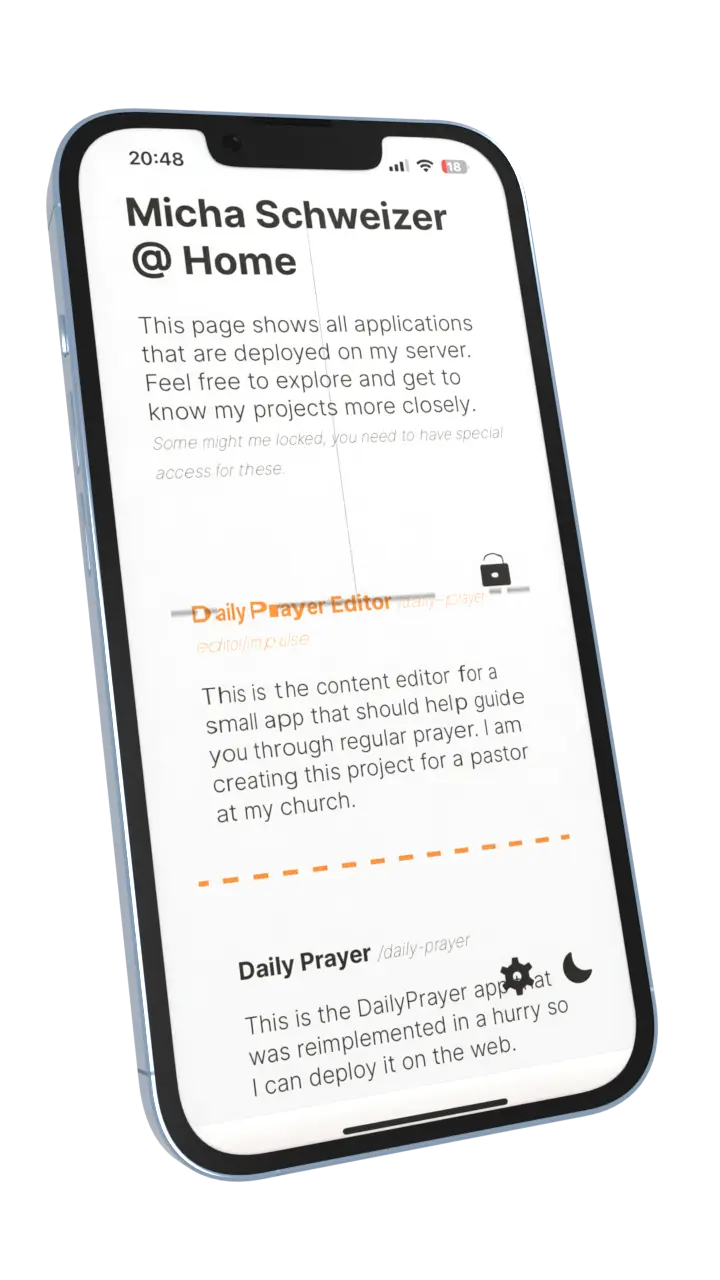
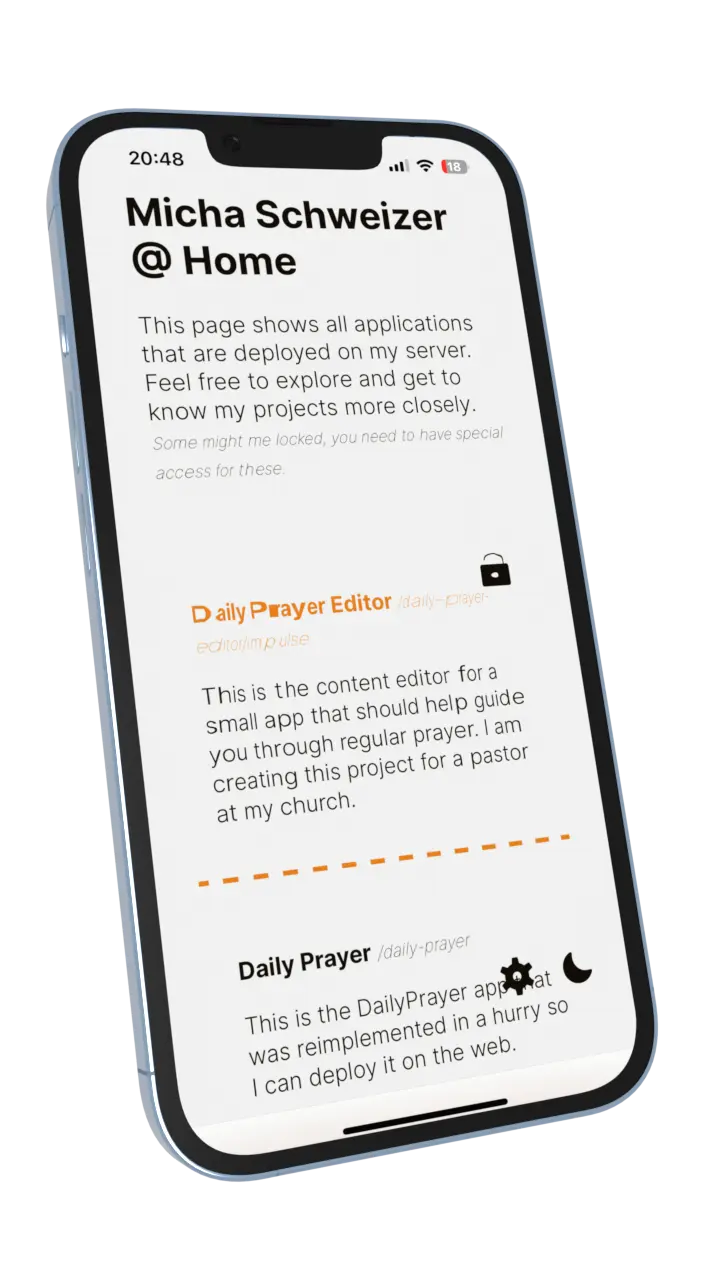
update images & cleanup

diff --git a/index.mobile.css b/index.mobile.css
@@ -6,32 +6,36 @@
 /* small screen and touchscreen */
 :root, [color-theme="default"] {
   --work-teachu-image: url(assets/images/work/mobile-teachu-light.webp);
-  --work-automation-image: url(assets/images/work/mobile-room-automation.webp);
-  --work-other-image: url(assets/images/work/desktop-other-light.webp);
-  --work-deployment-image: url(assets/images/work/work-image-deployments-light.png);
+  --work-automation-image: url(assets/images/work/mobile-automation-light.webp);
+  --work-other-image: url(assets/images/work/mobile-other-light.webp);
+  --work-deployment-image: url(assets/images/work/mobile-controller-light.webp);
   --work-prayer-image: url(assets/images/work/mobile-prayer-light.webp);
+  --work-budget-image: url(assets/images/work/mobile-budget-light.webp);
 }
 
 [color-theme="dark"] {
   --work-teachu-image: url(assets/images/work/mobile-teachu-dark.webp);
-  --work-other-image: url(assets/images/work/desktop-other-light.webp);
-  --work-deployment-image: url(assets/images/work/work-image-deployments-dark.png);
+  --work-other-image: url(assets/images/work/mobile-other-dark.webp);
+  --work-deployment-image: url(assets/images/work/mobile-controller-dark.webp);
+  --work-budget-image: url(assets/images/work/mobile-budget-dark.webp);
 }
 
 /* not touchscreen */
 @media (any-pointer: fine) {
   :root, [color-theme="default"] {
-    --work-teachu-image: url(assets/images/work/work-teachu-light.png);
+    --work-teachu-image: url(assets/images/work/desktop-teachu-light.webp);
     --work-automation-image: url(assets/images/work/desktop-room-automation.webp);
     --work-other-image: url(assets/images/work/desktop-other-light.webp);
-    --work-deployment-image: url(assets/images/work/work-image-deployments-light.png);
+    --work-deployment-image: url(assets/images/work/desktop-controller-light.webp);
     --work-prayer-image: url(assets/images/work/mobile-prayer-light.webp);
+    --work-budget-image: url(assets/images/work/desktop-budget-light.webp);
   }
 
   [color-theme="dark"] {
-    --work-teachu-image: url(assets/images/work/work-teachu-dark.png);
-    --work-other-image: url(assets/images/work/desktop-other-light.webp);
-    --work-deployment-image: url(assets/images/work/work-image-deployments-dark.png);
+    --work-teachu-image: url(assets/images/work/desktop-teachu-dark.webp);
+    --work-other-image: url(assets/images/work/desktop-other-dark.webp);
+    --work-deployment-image: url(assets/images/work/desktop-controller-dark.webp);
+    --work-budget-image: url(assets/images/work/desktop-controller-dark.webp);
   }
 }
 

diff --git a/index.html b/index.html
@@ -14,7 +14,6 @@
 
   <link rel="preconnect" href="https://fonts.googleapis.com">
   <link rel="preconnect" href="https://fonts.gstatic.com" crossorigin>
-  <!--    TODO only download families that are actually used -->
   <link href="https://fonts.googleapis.com/css2?family=Roboto:ital,wght@0,100;0,300;0,400;0,500;0,700;0,900;1,100;1,300;1,400;1,500;1,700;1,900&display=swap" rel="stylesheet">
 
   <script src='theming/theme-loader.js'></script>
@@ -78,14 +77,8 @@
   <div class="banner-container" id="home-banner-container">
     <div class="banner" id="home-banner"></div>
   </div>
-
   <section id="work">
     <h3>Work</h3>
-    <!--    TODO cleanup!! -->
-    <!--    TODO "appear" animation, scale & opacity?-->
-    <!--    TODO only first orange banner is moving (I actually think it is, but down and not up) -->
-    <!--    TODO fix app images -->
-    <!--    TODO fix mobile (maybe not sticky (it jumps a bit) and normal list) -->
     <div class="work-items">
       <div class="work-item" id="work-teachu" style="margin-top: clamp(10px, 2vh, 36px);">
         <h4>TeachU</h4>
@@ -177,7 +170,7 @@
           A WebApp that lets you manage your money in a breeze. It features automatic transaction import via E-Mail.
         </p>
         <div class="work-item-content">
-          <div class="image-container" style="background-image: var(--work-other-image);"></div>
+          <div class="image-container" style="background-image: var(--work-budget-image);"></div>
           <div class="description">
             <p>
               I’ve started this project because I want to gain a better overview of my
@@ -234,7 +227,7 @@
       <div class="work-item" id="work-other" style="margin-top: calc(6 * clamp(10px, 2vh, 36px));">
         <h4>Other</h4>
         <p class="subtitle">
-          On my path as a developer I have come across many more smaller projects.
+          During my career as a developer I have come across many more smaller projects.
         </p>
         <div class="work-item-content">
           <div class="image-container" style="background-image: var(--work-other-image)"></div>
@@ -263,7 +256,6 @@
             <span class="tag" style="font-weight: 100;">Nuxt</span>
             <span class="tag" style="font-weight: 100;">Ruby on Rails</span>
           </div>
-          <!--          fixme wraps onto a new line if many tags exist, generally not really happy with this-->
           <a class="anchor" href="/host" target="_blank">Visit<span class="link-icon"></span></a>
         </div>
       </div>

diff --git a/index.js b/index.js
@@ -32,14 +32,13 @@ function init() {
   themeToggleButton.addEventListener("click", toggleColorPressed);
 
   if (useSmallDesign) {
-    createMobileWorkAnimations("#work-teachu");
-    createMobileWorkAnimations("#work-room");
-    createMobileWorkAnimations("#work-prayer");
-    createMobileWorkAnimations("#work-budget");
-    createMobileWorkAnimations("#work-controller");
-    createMobileWorkAnimations("#work-other");
+    const workItems = document.getElementsByClassName("work-item");
+    for (let workItem of workItems) {
+      const idString = "#" + workItem.id;
+      createMobileWorkAnimations(idString);
+    }
   } else {
-    createWorkAnimations(); // changes website structure => needs to be done first
+    createWorkItemPinnedScroll(); // will change website structure => needs to be done first
   }
   createLoadingAnimation();
   createBannerScrollTrigger("#home-banner", "#home-banner-container", useSmallDesign);
@@ -150,7 +149,7 @@ function createOverlayEndTrigger() {
   });
 }
 
-function createWorkAnimations() {
+function createWorkItemPinnedScroll() {
   const yOffset = window.innerHeight;
   const workItemCount = document.getElementsByClassName("work-item").length;
 
@@ -158,24 +157,27 @@ function createWorkAnimations() {
       ".work-item:not(:first-child)",
       {
         y: yOffset,
+        scale: 0.5,
+        opacity: 0.85,
+        rotationX: -50,
       },
       {
         y: 0,
-        stagger: 0.7,
+        scale: 1,
+        opacity: 1,
+        stagger: 0.5,
+        rotationX: 0,
         scrollTrigger: {
           pin: "#work",
           scrub: 0.5,
           start: "top top",
           end: () => `+=${ yOffset * workItemCount }`,
+          toggleClass: "active",
         },
       },
   );
 }
 
-// TODO
-// - a lot of this code can be reused
-// - try do use the exact same animations for desktop,
-//    different scroll trigger is probably required
 function createMobileWorkAnimations(workItemId) {
   const defaultFlyInAnimation = {
     y: 40,

diff --git a/index.desktop.css b/index.desktop.css
@@ -3,19 +3,20 @@
   display: none !important;
 }
 
-/*TODO complete all renders of the images*/
 :root, [color-theme="default"] {
-  --work-teachu-image: url(assets/images/work/work-teachu-light.png);
+  --work-teachu-image: url(assets/images/work/desktop-teachu-light.webp);
   --work-automation-image: url(assets/images/work/desktop-room-automation.webp);
   --work-other-image: url(assets/images/work/desktop-other-light.webp);
-  --work-deployment-image: url(assets/images/work/work-image-deployments-light.png);
+  --work-deployment-image: url(assets/images/work/desktop-controller-light.webp);
   --work-prayer-image: url(assets/images/work/mobile-prayer-light.webp);
+  --work-budget-image: url(assets/images/work/desktop-budget-light.webp);
 }
 
 [color-theme="dark"] {
-  --work-teachu-image: url(assets/images/work/work-teachu-dark.png);
-  --work-other-image: url(assets/images/work/desktop-other-light.webp);
-  --work-deployment-image: url(assets/images/work/work-image-deployments-dark.png);
+  --work-teachu-image: url(assets/images/work/desktop-teachu-dark.webp);
+  --work-other-image: url(assets/images/work/desktop-other-dark.webp);
+  --work-deployment-image: url(assets/images/work/desktop-controller-dark.webp);
+  --work-budget-image: url(assets/images/work/desktop-budget-dark.webp);
 }
 
 h1 {
@@ -91,10 +92,10 @@ main .home {
   background-color: color-mix(in srgb, var(--toned-gray) 25%, var(--michu-tech-background));
 }
 
-/*TODO dont know*/
-.work-item:first-of-type {
-  background-color: transparent !important;
-}
+/* actually can't decide what looks better */
+/*.work-item:first-of-type {*/
+/*  background-color: transparent !important;*/
+/*}*/
 
 .work-item:not(:first-of-type) {
   --shadow-color: color-mix(in srgb, var(--michu-tech-background) 50%, transparent);
@@ -113,7 +114,7 @@ main .home {
 }
 
 .work-item .work-item-content .image-container {
-  width: 80%;
+  width: 100%;
   height: 100%;
   background-attachment: fixed;
 }

diff --git a/index.css b/index.css
@@ -68,8 +68,6 @@ p {
   font-weight: 300;
 }
 
-/*TODO banner z-index is way to high */
-
 /* HOME */
 main {
   width: 100%;
